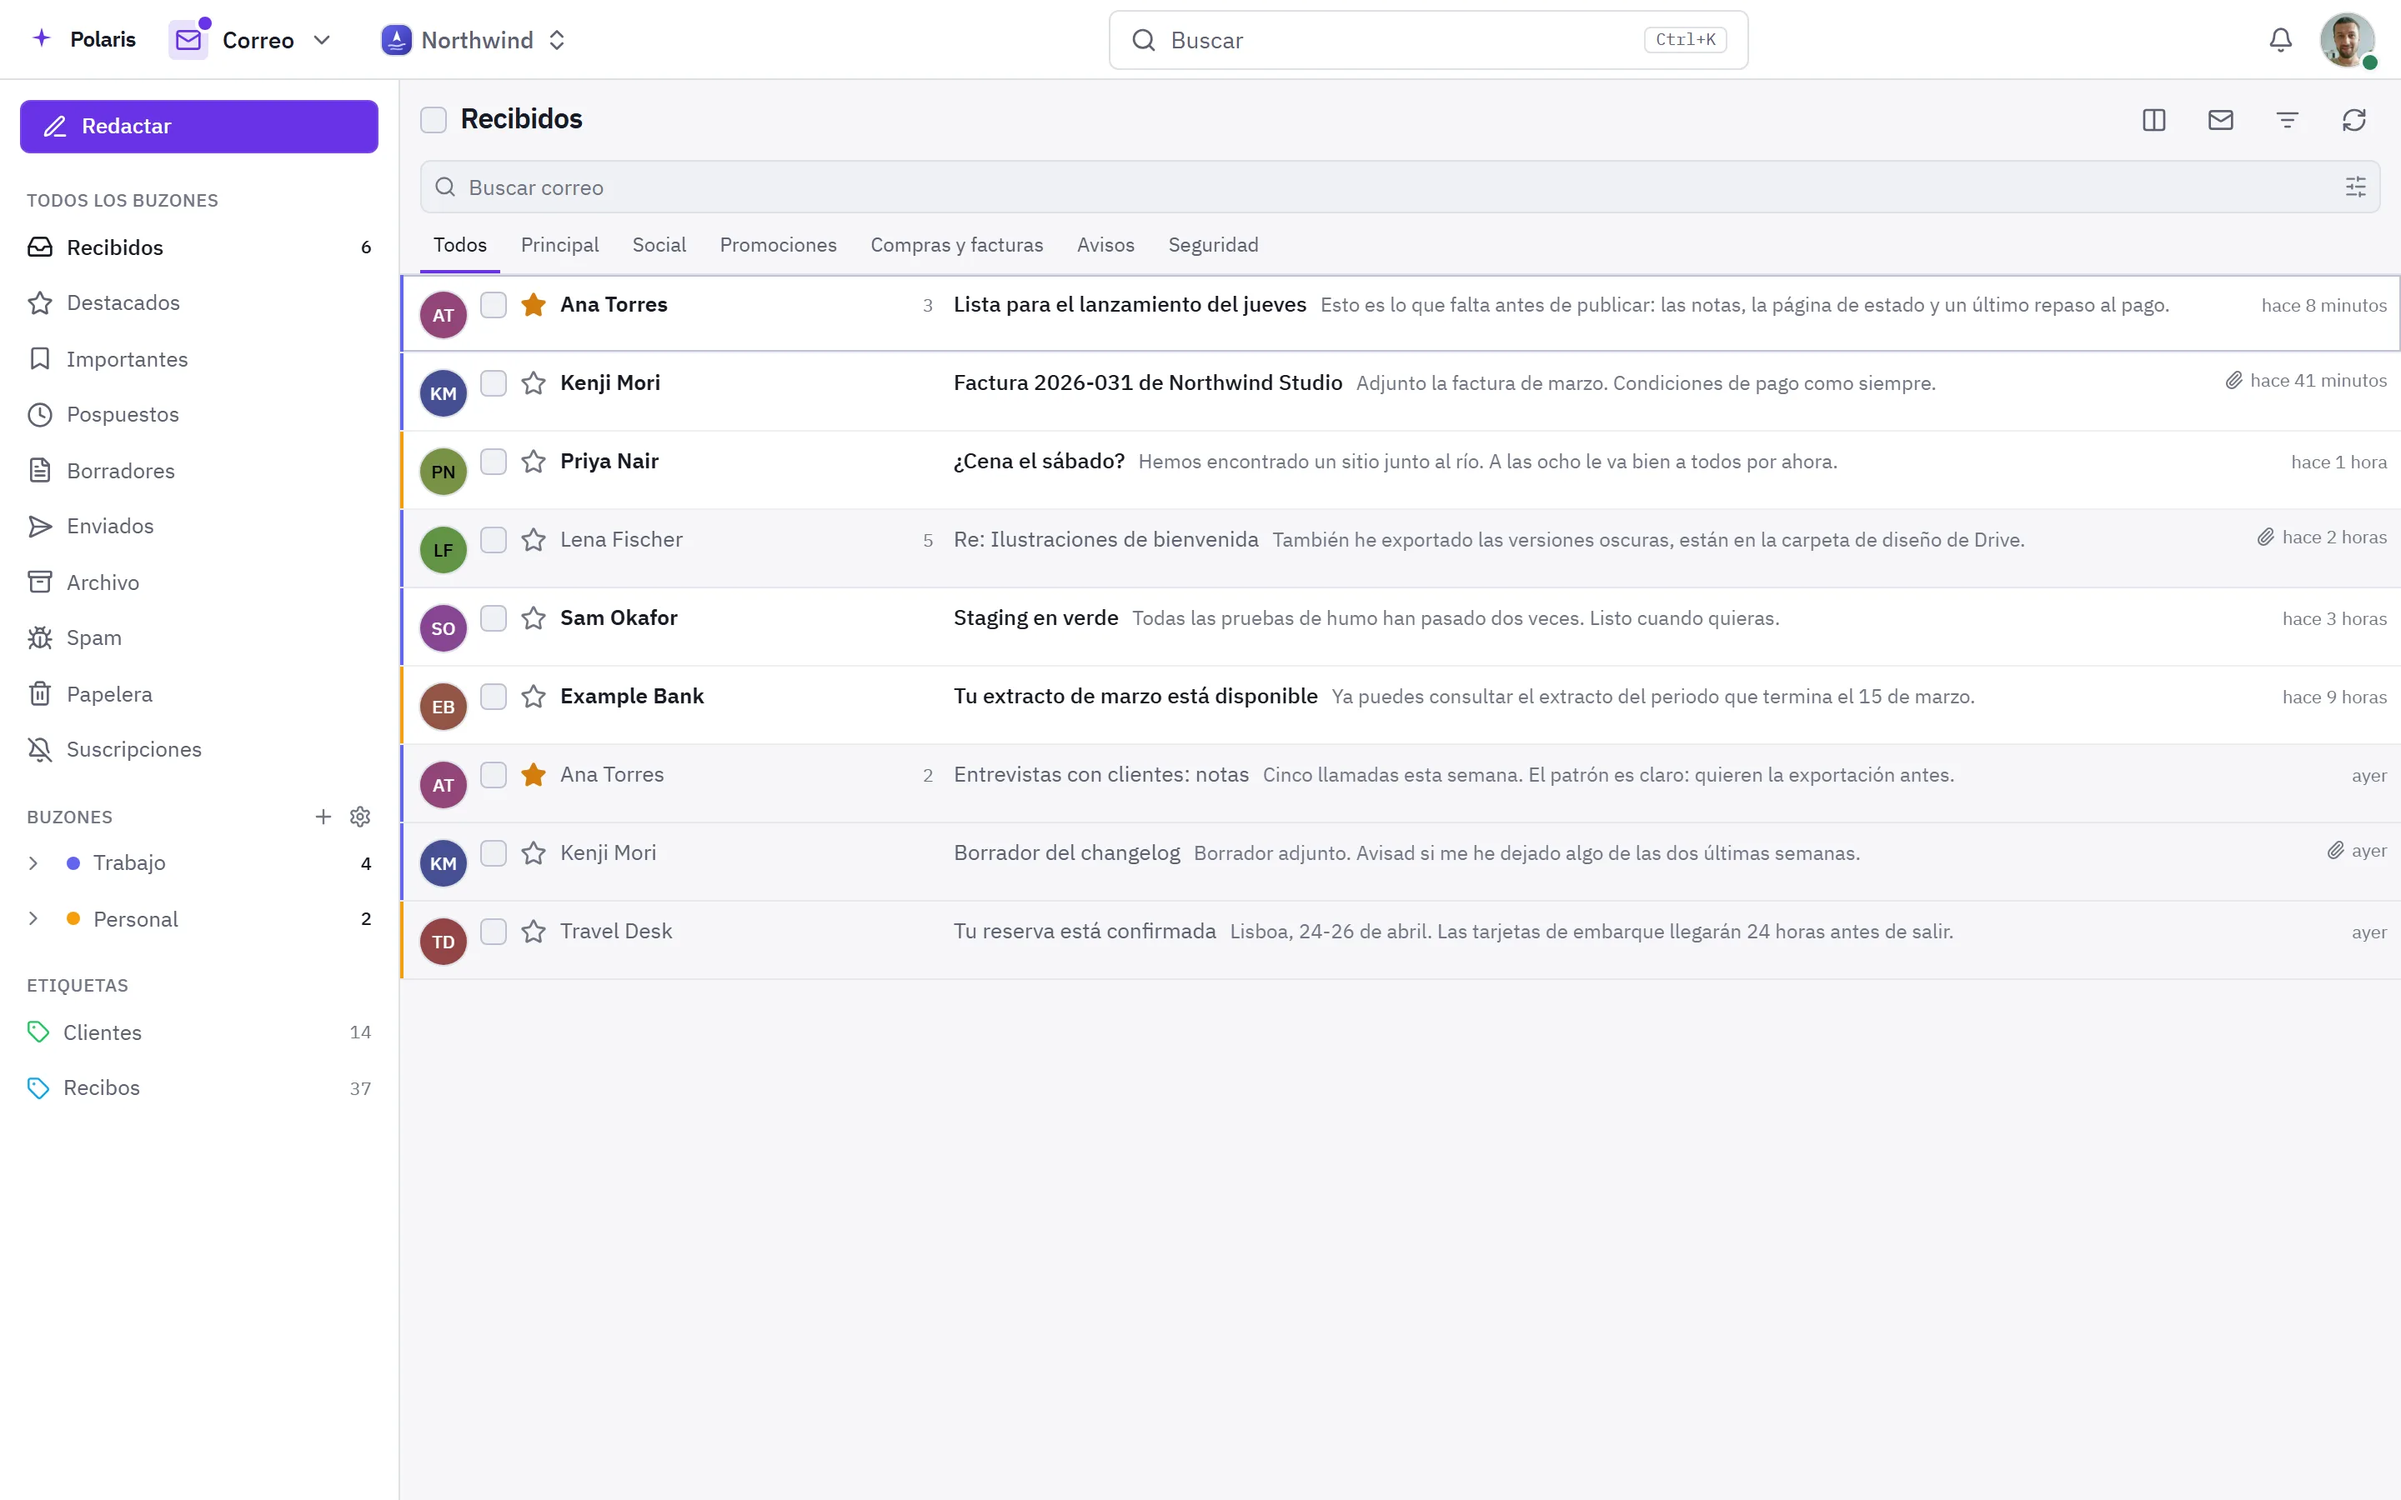
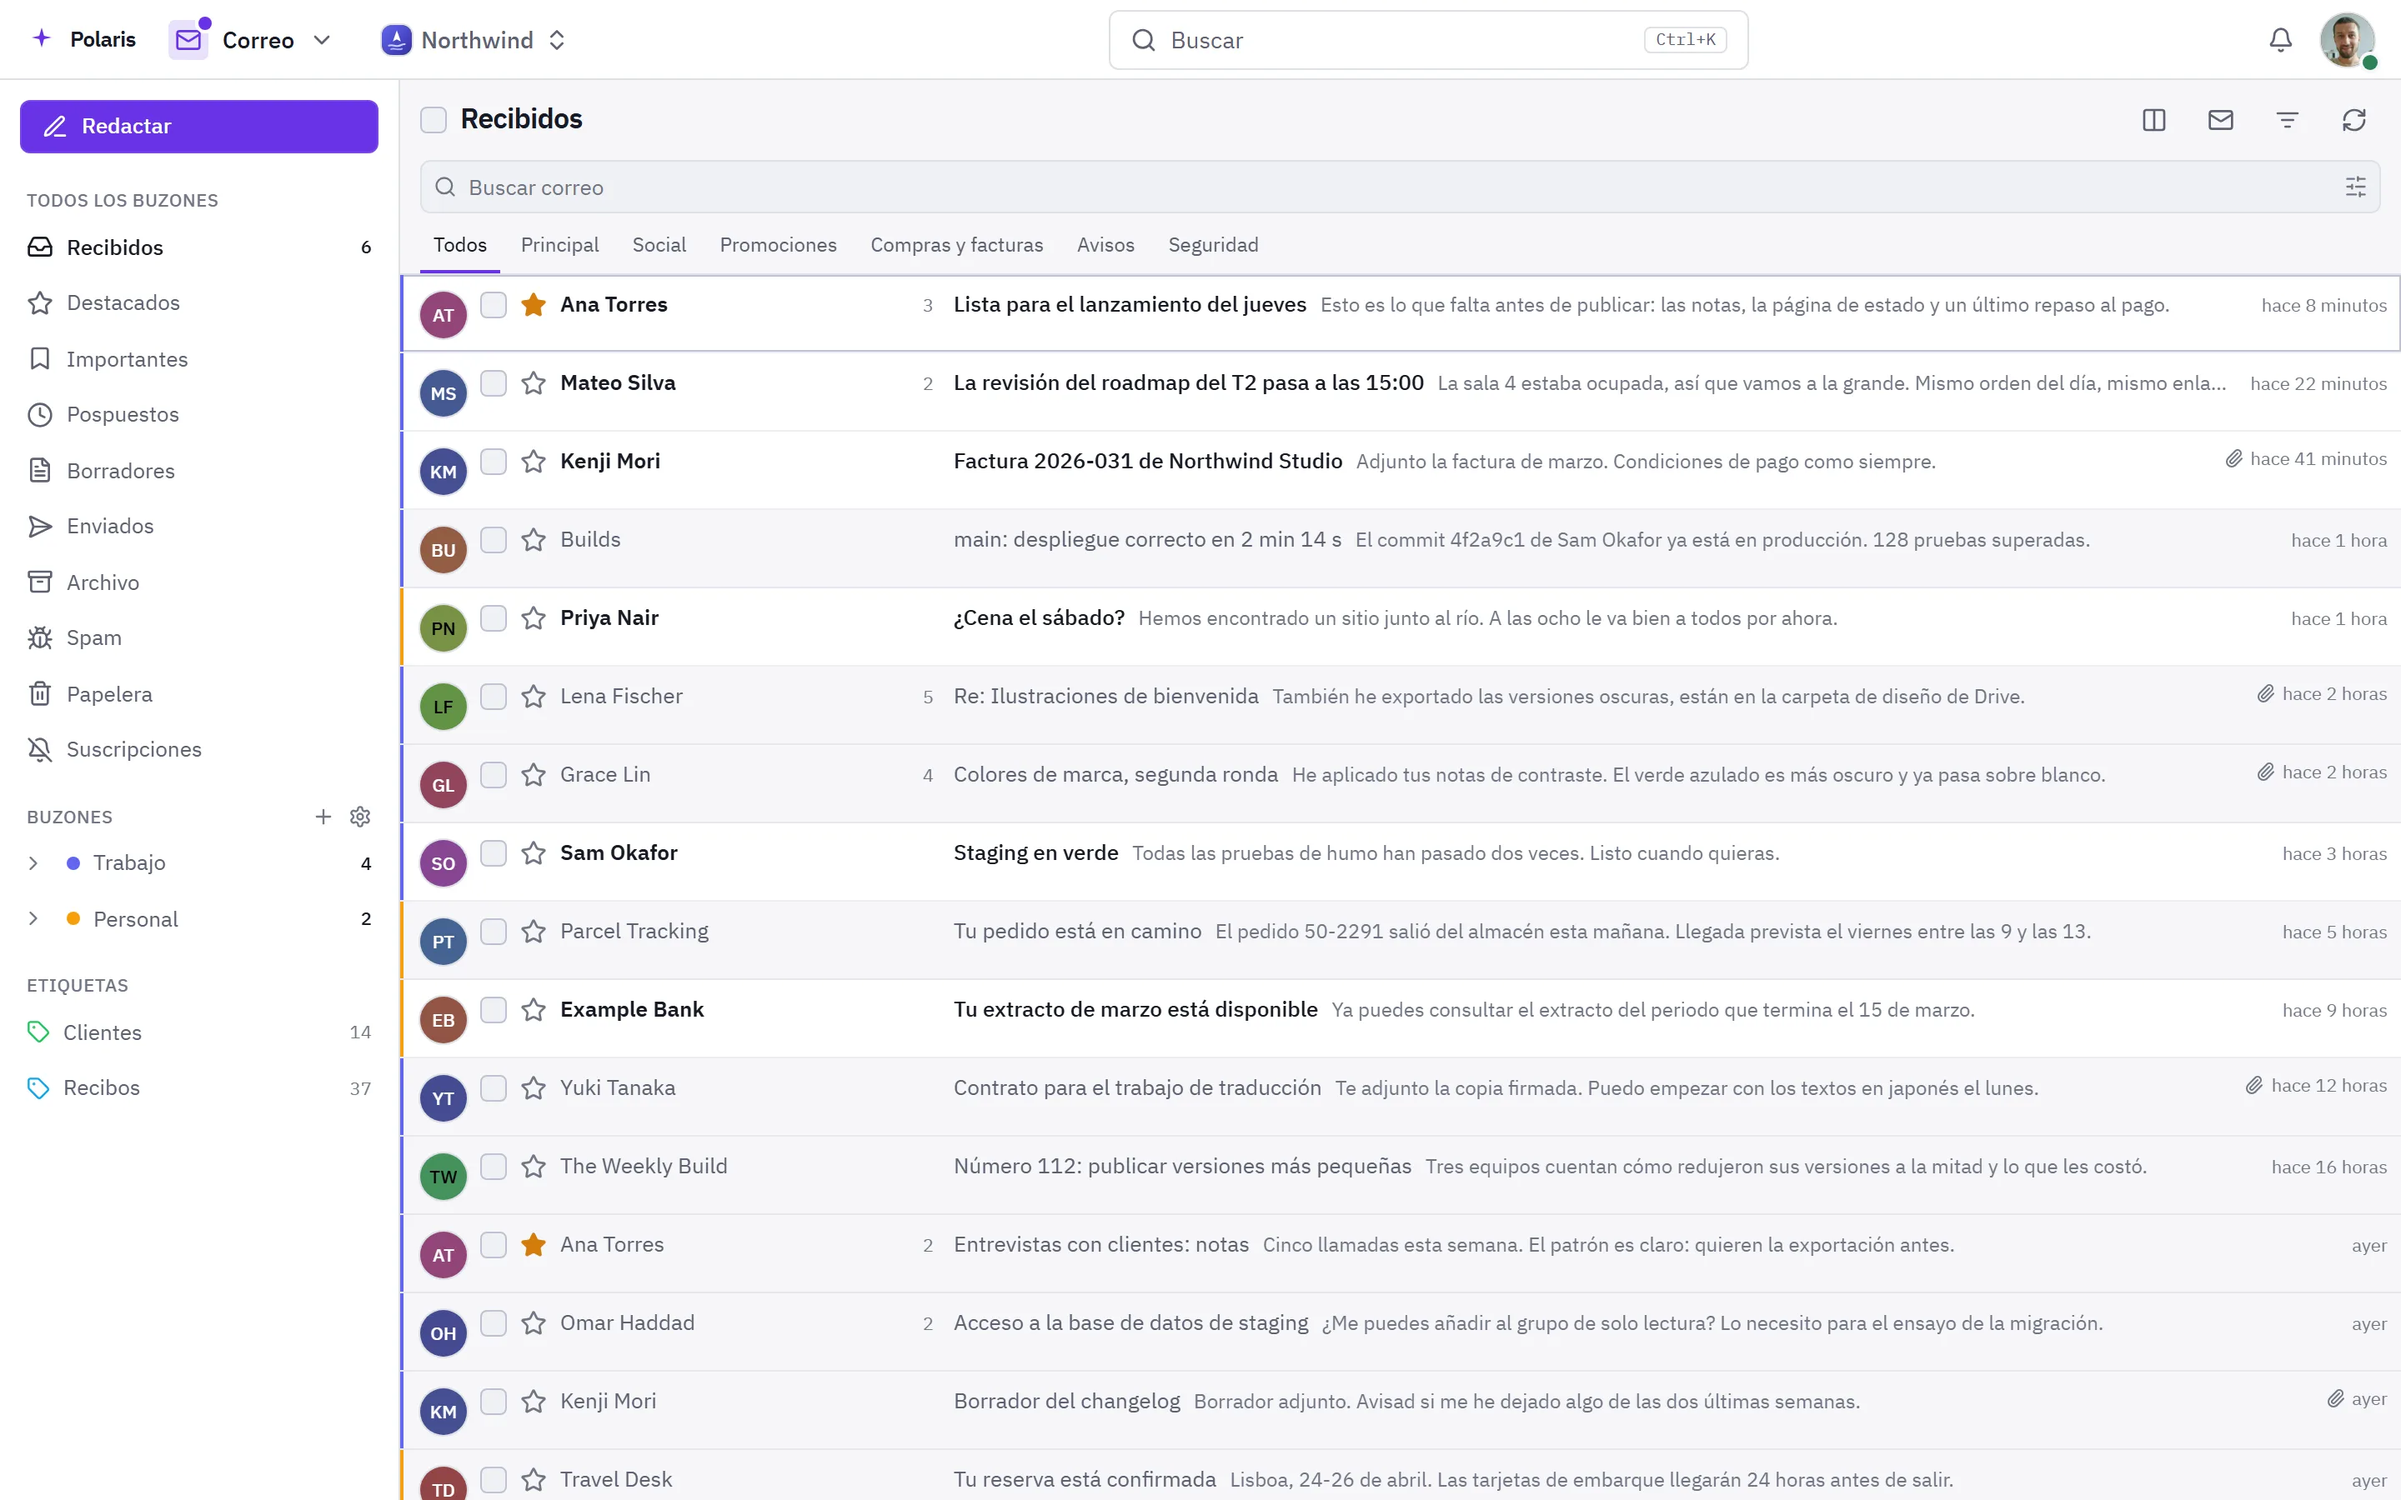
📝 docs(readme): a fuller inbox in the mail pictures
Nine more conversations from fixture senders: team mail, a build notice,
a parcel update, a newsletter, a support ticket and a signed contract, so
the inbox reads like one in use. Unread counts still match the rail.

diff --git a/dashboard/scripts/readme-media/fixtures/mail.ts b/dashboard/scripts/readme-media/fixtures/mail.ts
@@ -160,6 +160,17 @@ const THREADS: readonly ThreadDraft[] = [
         starred: true
     },
     {
+        from: ["Mateo Silva", "mateo@example.com"],
+        subject: ["Q2 roadmap review moved to 3pm", "La revisión del roadmap del T2 pasa a las 15:00"],
+        snippet: [
+            "Room 4 was taken, so we are in the big room instead. Same agenda, same link.",
+            "La sala 4 estaba ocupada, así que vamos a la grande. Mismo orden del día, mismo enlace."
+        ],
+        minutes: 22,
+        unread: 1,
+        count: 2
+    },
+    {
         from: ["Kenji Mori", "kenji@example.com"],
         subject: ["Invoice 2026-031 from Northwind Studio", "Factura 2026-031 de Northwind Studio"],
         snippet: [
@@ -170,6 +181,15 @@ const THREADS: readonly ThreadDraft[] = [
         unread: 1,
         attachments: true,
         label: 1
+    },
+    {
+        from: ["Builds", "ci@builds.example"],
+        subject: ["main: deploy succeeded in 2m 14s", "main: despliegue correcto en 2 min 14 s"],
+        snippet: [
+            "Commit 4f2a9c1 by Sam Okafor is live on production. 128 tests passed.",
+            "El commit 4f2a9c1 de Sam Okafor ya está en producción. 128 pruebas superadas."
+        ],
+        minutes: 55
     },
     {
         from: ["Priya Nair", "priya@example.org"],
@@ -194,6 +214,18 @@ const THREADS: readonly ThreadDraft[] = [
         attachments: true
     },
     {
+        from: ["Grace Lin", "grace@example.com"],
+        subject: ["Brand colors, round two", "Colores de marca, segunda ronda"],
+        snippet: [
+            "Took your notes on contrast. The teal is darker now and passes on white.",
+            "He aplicado tus notas de contraste. El verde azulado es más oscuro y ya pasa sobre blanco."
+        ],
+        minutes: 160,
+        count: 4,
+        attachments: true,
+        label: 1
+    },
+    {
         from: ["Sam Okafor", "sam@example.com"],
         subject: ["Staging is green", "Staging en verde"],
         snippet: [
@@ -202,6 +234,16 @@ const THREADS: readonly ThreadDraft[] = [
         ],
         minutes: 190,
         unread: 1
+    },
+    {
+        from: ["Parcel Tracking", "updates@parcels.example"],
+        subject: ["Your order has shipped", "Tu pedido está en camino"],
+        snippet: [
+            "Order 50-2291 left the warehouse this morning. Expected Friday between 9 and 13.",
+            "El pedido 50-2291 salió del almacén esta mañana. Llegada prevista el viernes entre las 9 y las 13."
+        ],
+        minutes: 60 * 5,
+        home: true
     },
     {
         from: ["Example Bank", "statements@bank.example"],
@@ -216,6 +258,26 @@ const THREADS: readonly ThreadDraft[] = [
         label: 2
     },
     {
+        from: ["Yuki Tanaka", "yuki@example.org"],
+        subject: ["Contract for the translation work", "Contrato para el trabajo de traducción"],
+        snippet: [
+            "Signed copy attached. I can start on the Japanese strings next Monday.",
+            "Te adjunto la copia firmada. Puedo empezar con los textos en japonés el lunes."
+        ],
+        minutes: 60 * 12,
+        attachments: true,
+        label: 1
+    },
+    {
+        from: ["The Weekly Build", "digest@news.example"],
+        subject: ["Issue 112: shipping smaller releases", "Número 112: publicar versiones más pequeñas"],
+        snippet: [
+            "Three teams on how they cut release size in half, and what it cost them.",
+            "Tres equipos cuentan cómo redujeron sus versiones a la mitad y lo que les costó."
+        ],
+        minutes: 60 * 16
+    },
+    {
         from: ["Ana Torres", "ana@example.com"],
         subject: ["Customer interviews: notes", "Entrevistas con clientes: notas"],
         snippet: [
@@ -225,6 +287,16 @@ const THREADS: readonly ThreadDraft[] = [
         minutes: 60 * 22,
         count: 2,
         starred: true
+    },
+    {
+        from: ["Omar Haddad", "omar@example.com"],
+        subject: ["Access to the staging database", "Acceso a la base de datos de staging"],
+        snippet: [
+            "Could you add me to the read-only group? I need it for the migration dry run.",
+            "¿Me puedes añadir al grupo de solo lectura? Lo necesito para el ensayo de la migración."
+        ],
+        minutes: 60 * 25,
+        count: 2
     },
     {
         from: ["Kenji Mori", "kenji@example.com"],
@@ -246,6 +318,27 @@ const THREADS: readonly ThreadDraft[] = [
         minutes: 60 * 30,
         home: true,
         label: 2
+    },
+    {
+        from: ["Support", "help@support.example"],
+        subject: ["Ticket 8841 has been resolved", "La incidencia 8841 se ha resuelto"],
+        snippet: [
+            "The SSO redirect issue is fixed in the latest release. Reply if it happens again.",
+            "El problema de redirección del SSO está corregido en la última versión. Responde si vuelve a pasar."
+        ],
+        minutes: 60 * 34
+    },
+    {
+        from: ["Lena Fischer", "lena@example.com"],
+        subject: ["Photos from the offsite", "Fotos de la jornada fuera de la oficina"],
+        snippet: [
+            "Uploaded everything to the shared album. The group shot by the lake came out well.",
+            "Lo he subido todo al álbum compartido. La foto de grupo junto al lago ha salido bien."
+        ],
+        minutes: 60 * 40,
+        home: true,
+        attachments: true,
+        starred: true
     }
 ];
 
